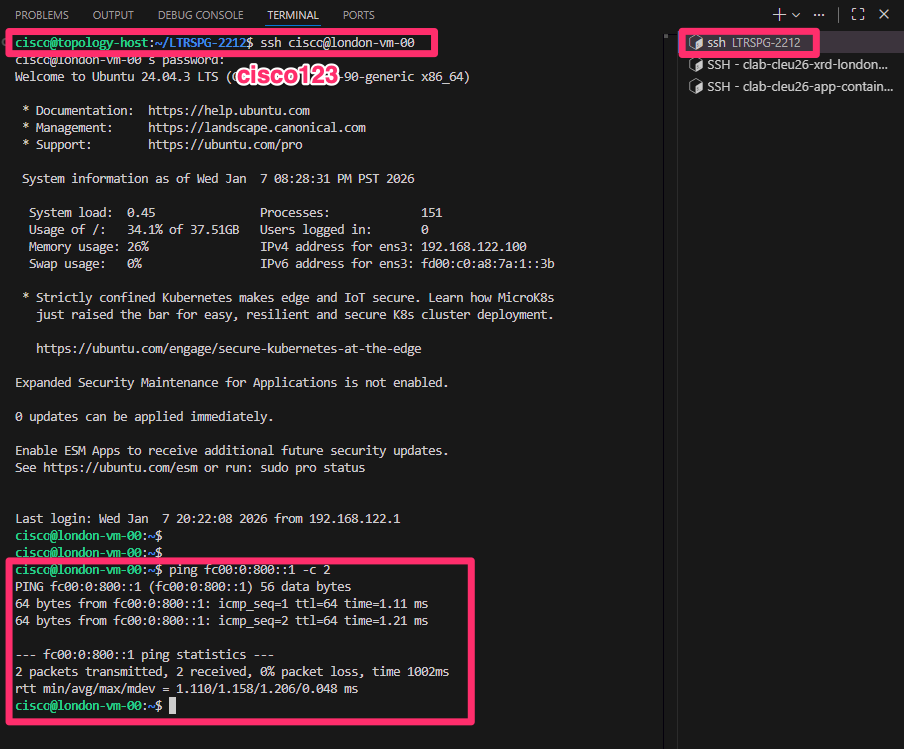
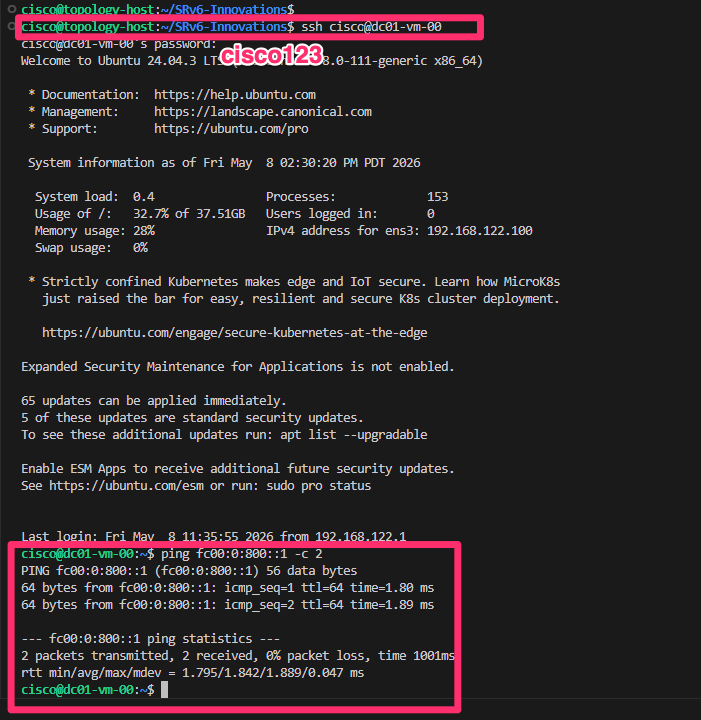
lab fix - script

diff --git a/lab_1/lab_1-guide.md b/lab_1/lab_1-guide.md
@@ -574,7 +574,7 @@ SRv6 uSID locator and source address information for nodes in the lab:
     ```
     ```diff
     RP/0/RP0/CPU0:xrd01#show segment-routing srv6 sid
-    Fri Jan  9 04:18:55.955 UTC
+    Fri May  8 21:45:56.366 UTC
 
     *** Locator: 'MyLocator' *** 
 
